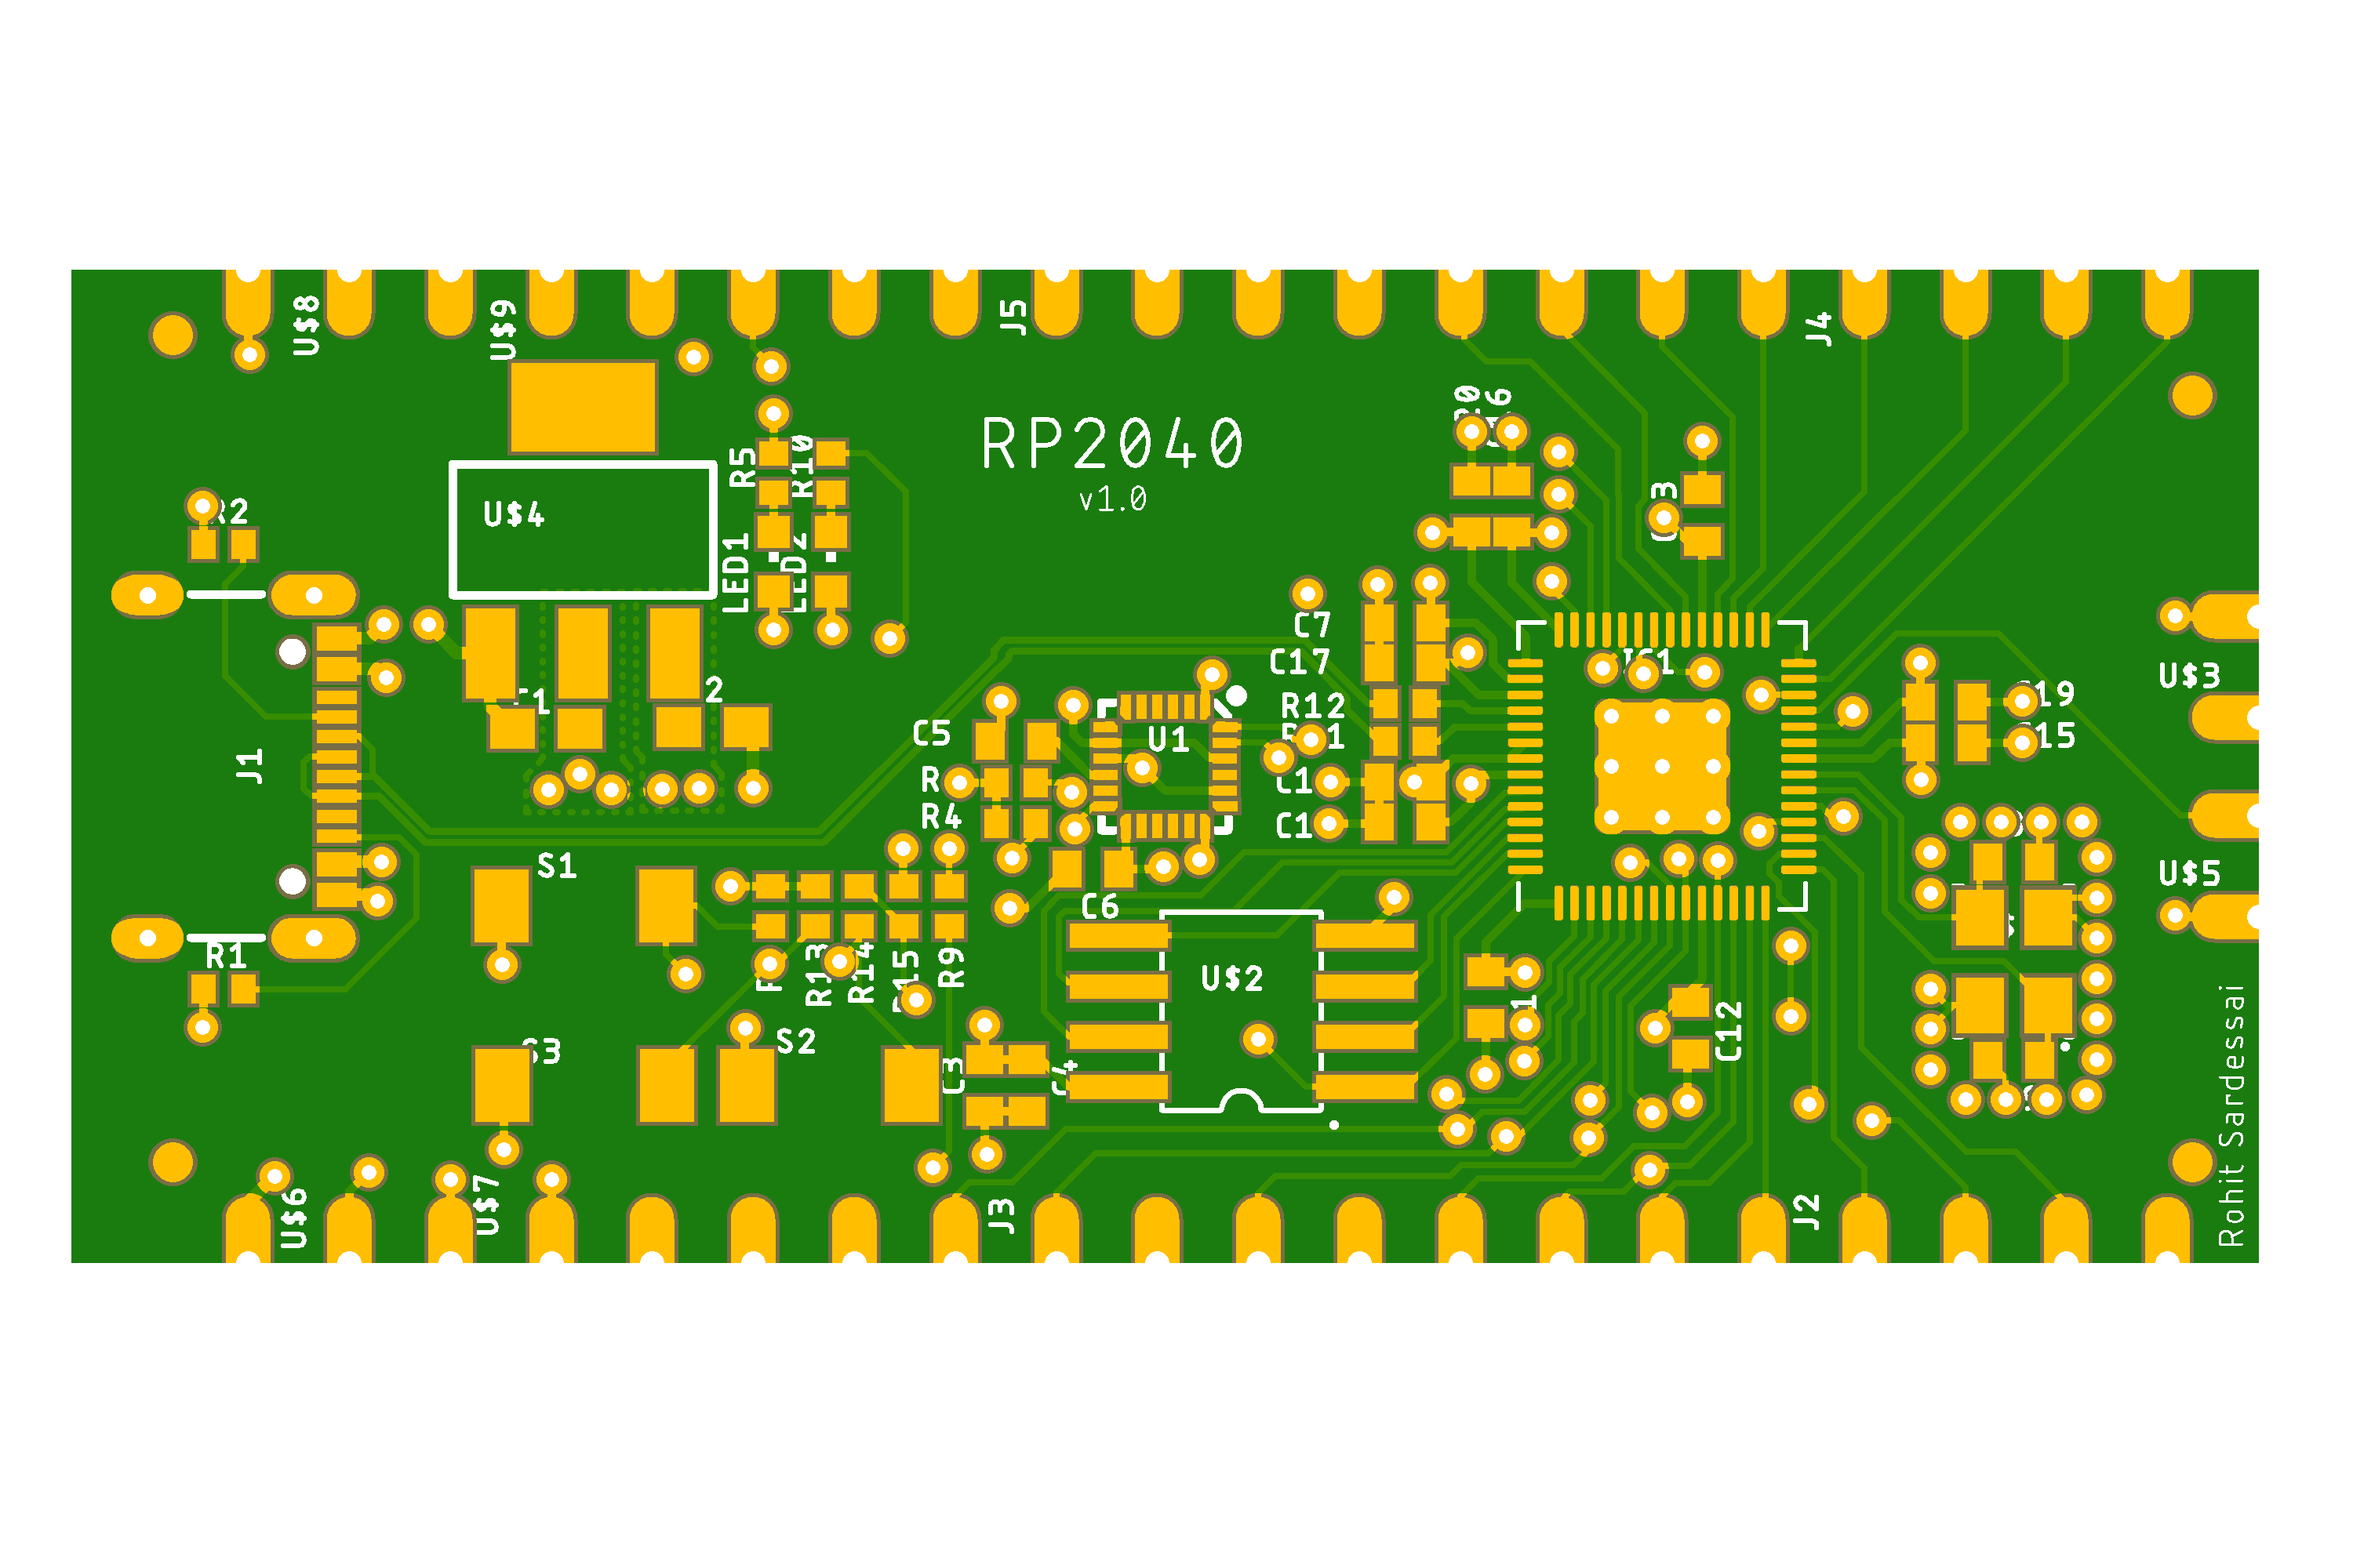
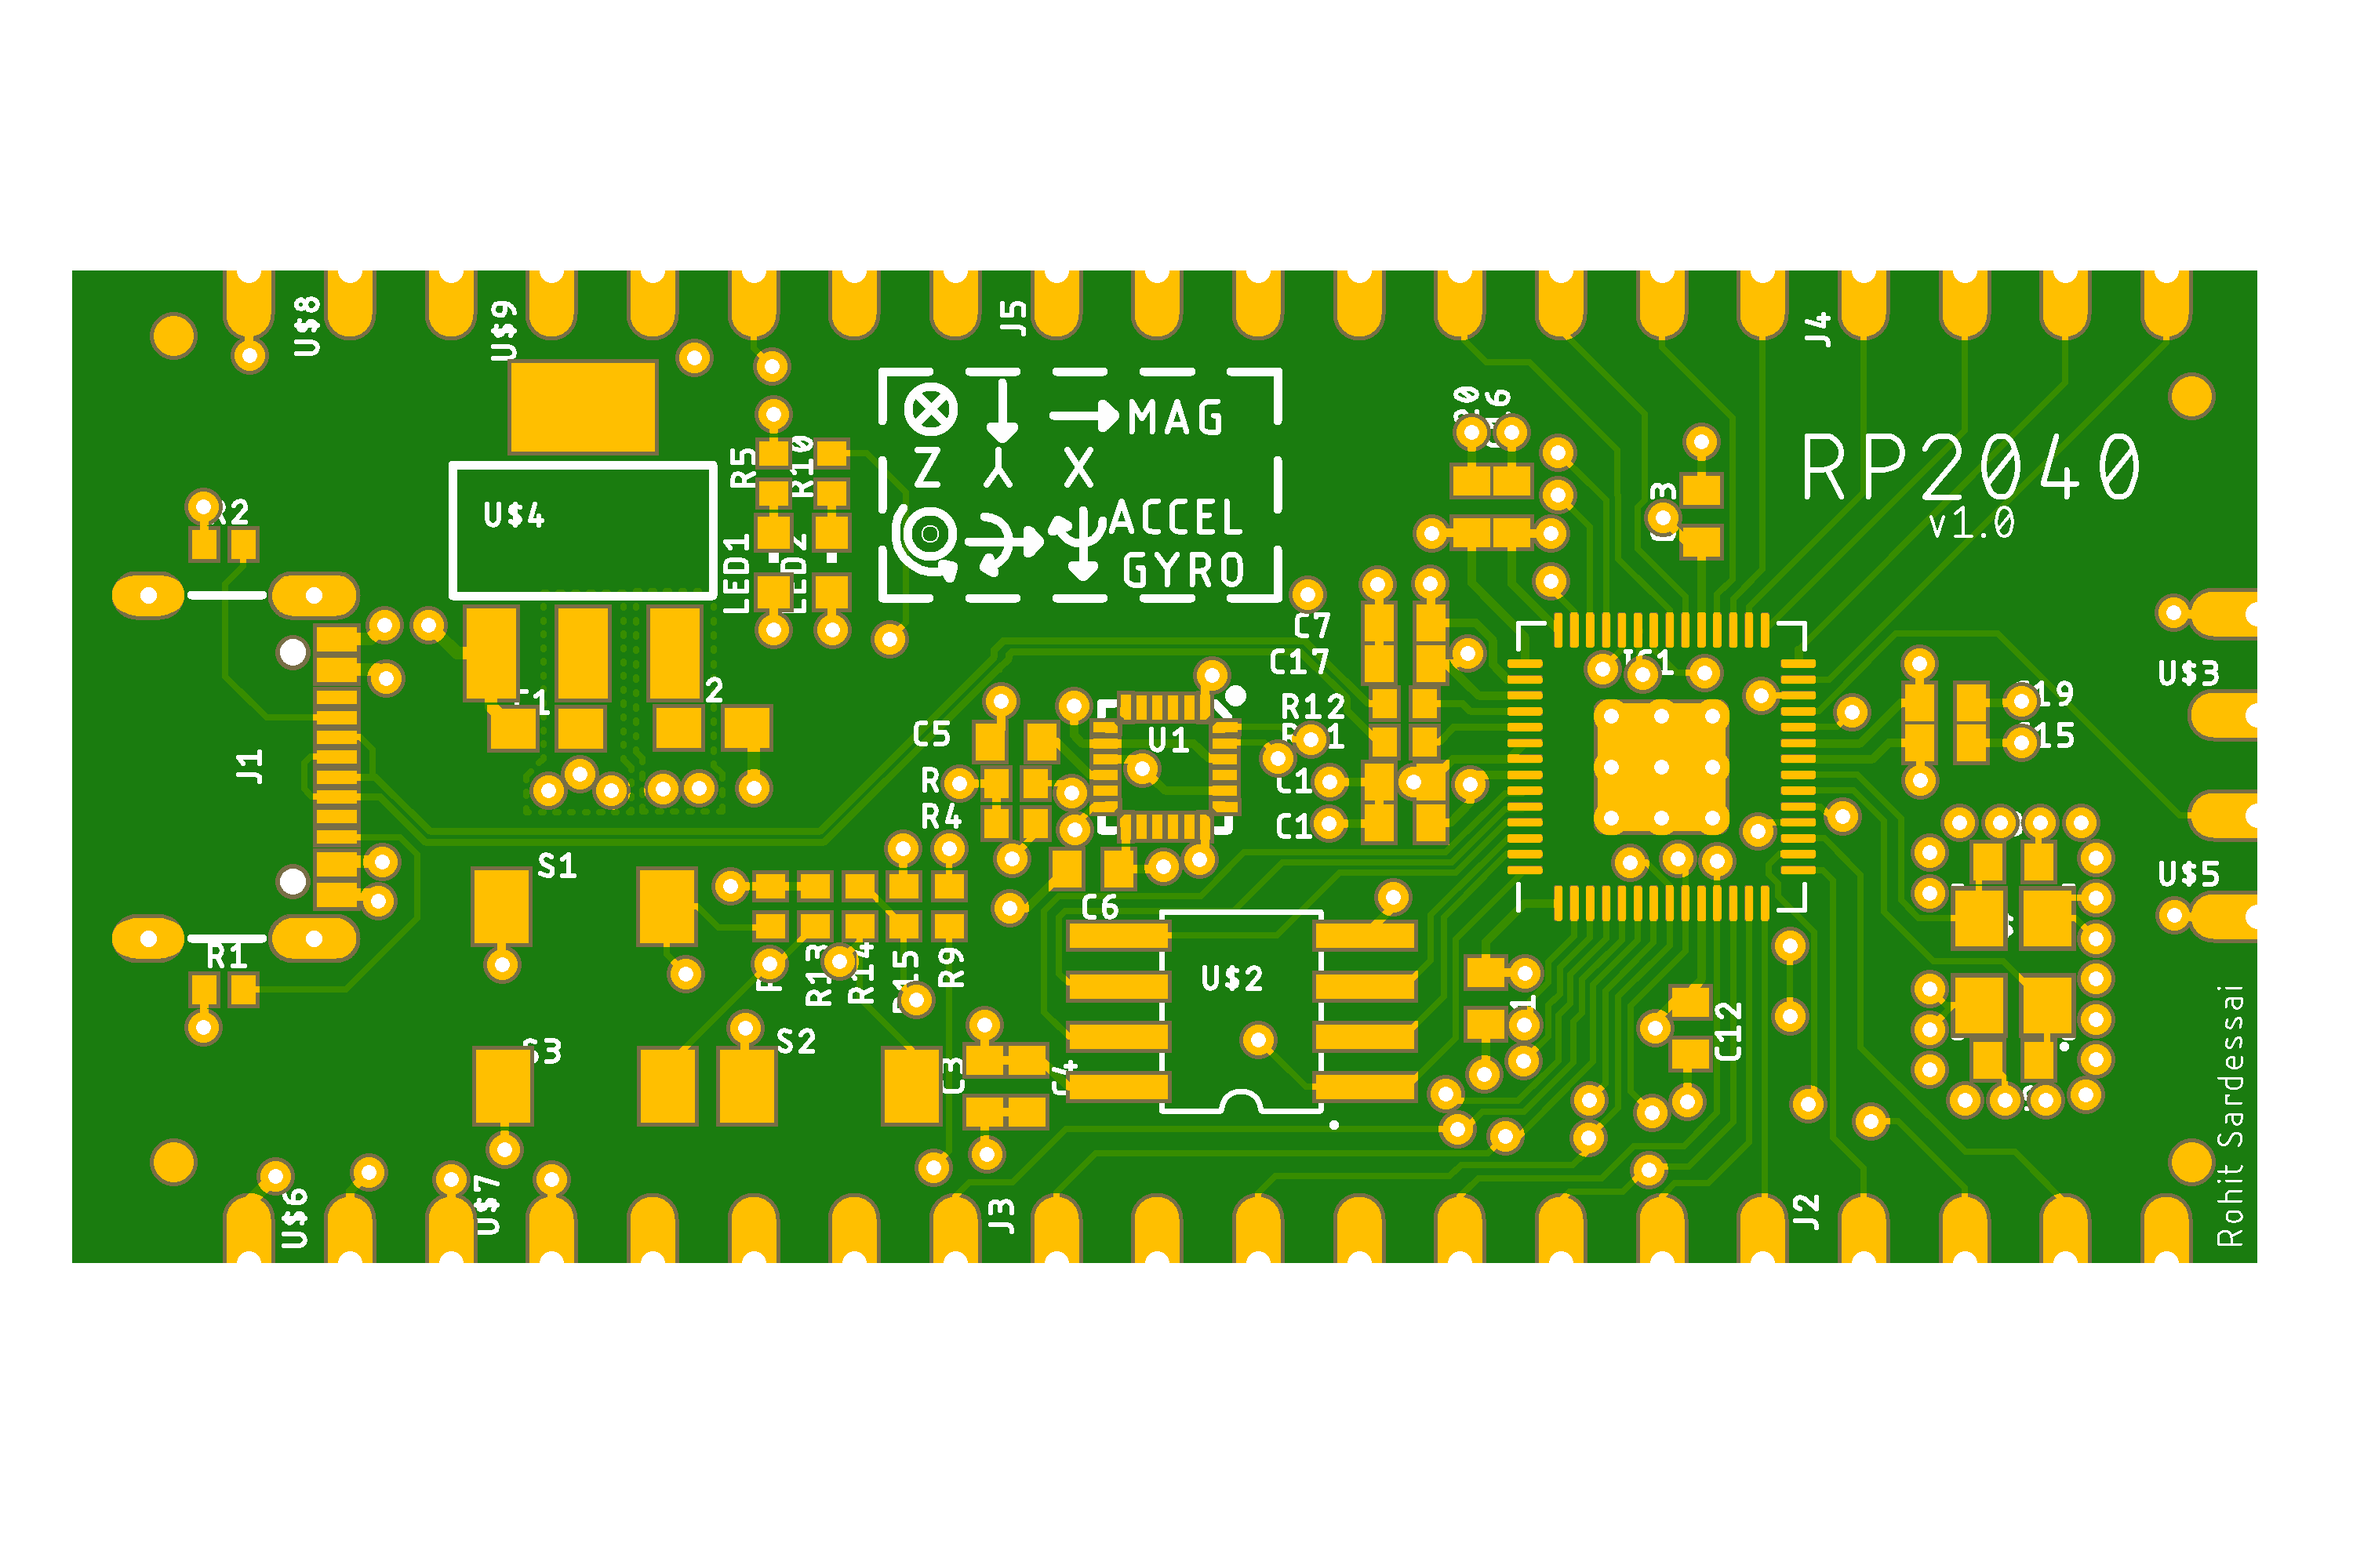
added top & bottom silk

diff --git a/README.md b/README.md
@@ -15,3 +15,4 @@ Features:
 - Castellated pads
 
 This board was made by referring to Philip Salmony's wonderful [YouTube channel](https://www.youtube.com/c/PhilS94/videos) . I highly recommend it.
+Sparkfun's open source designs also helped a lot.
